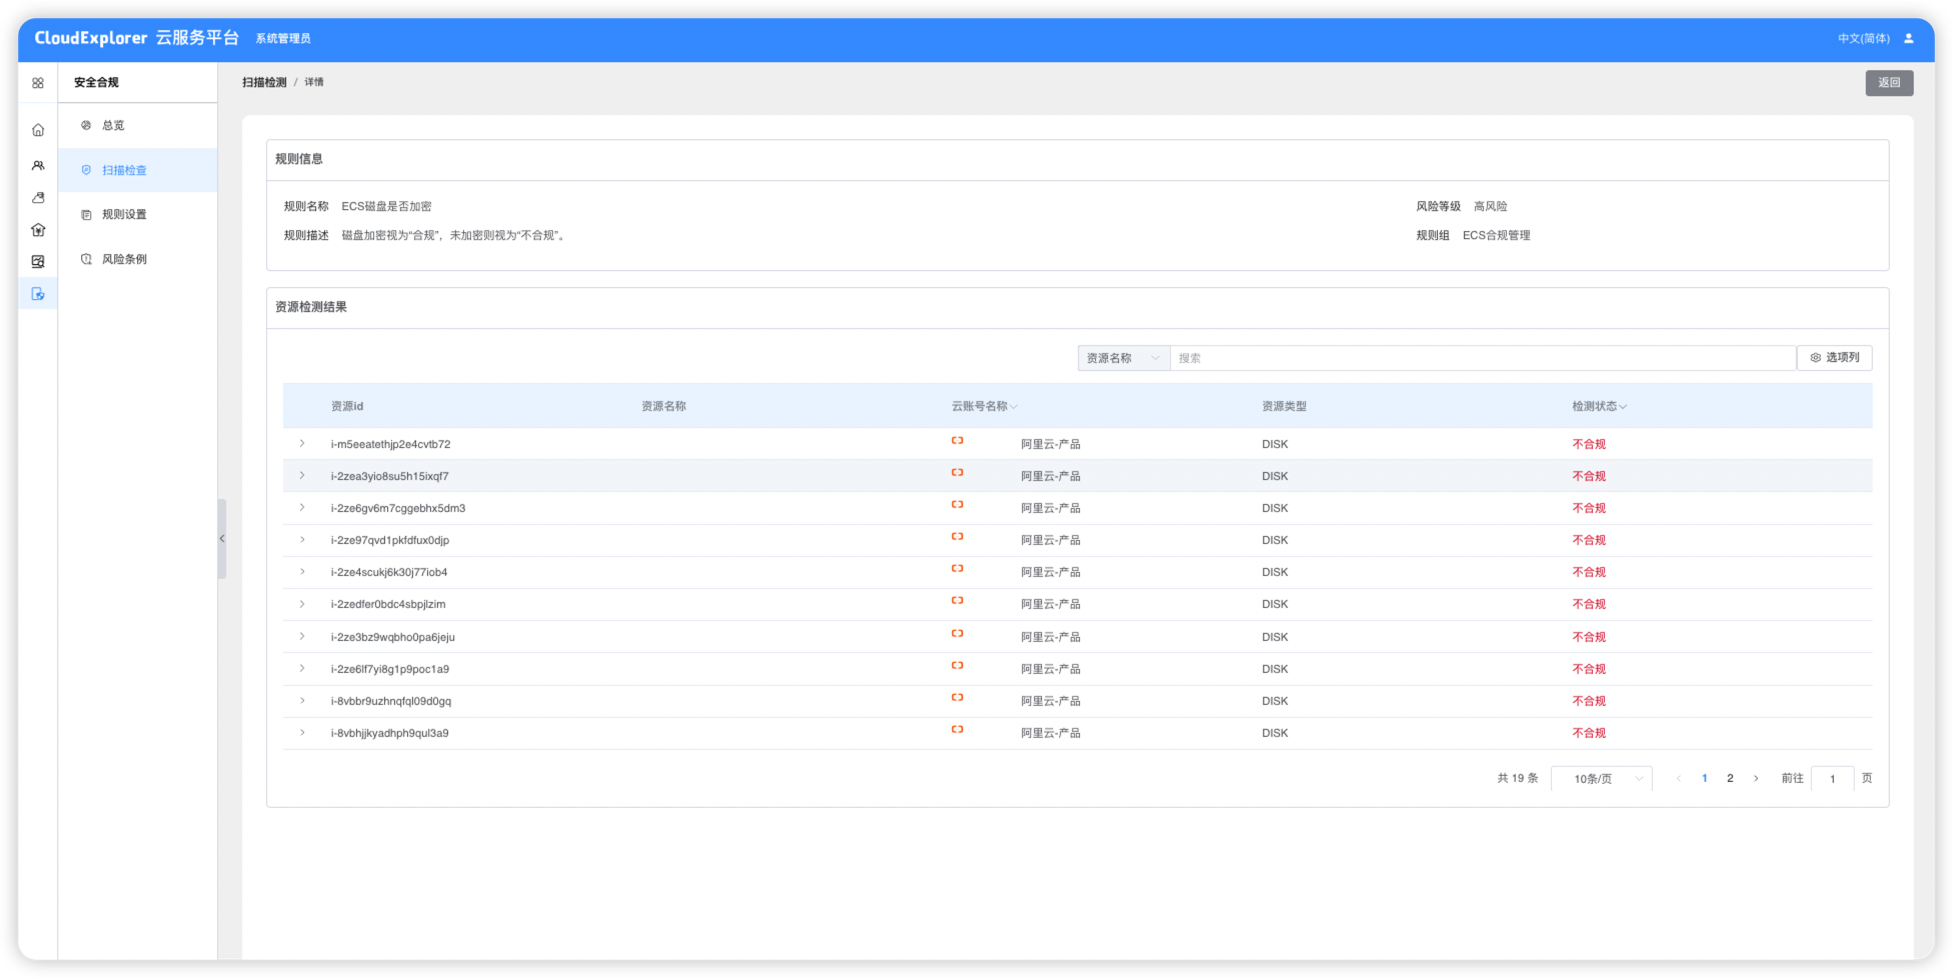
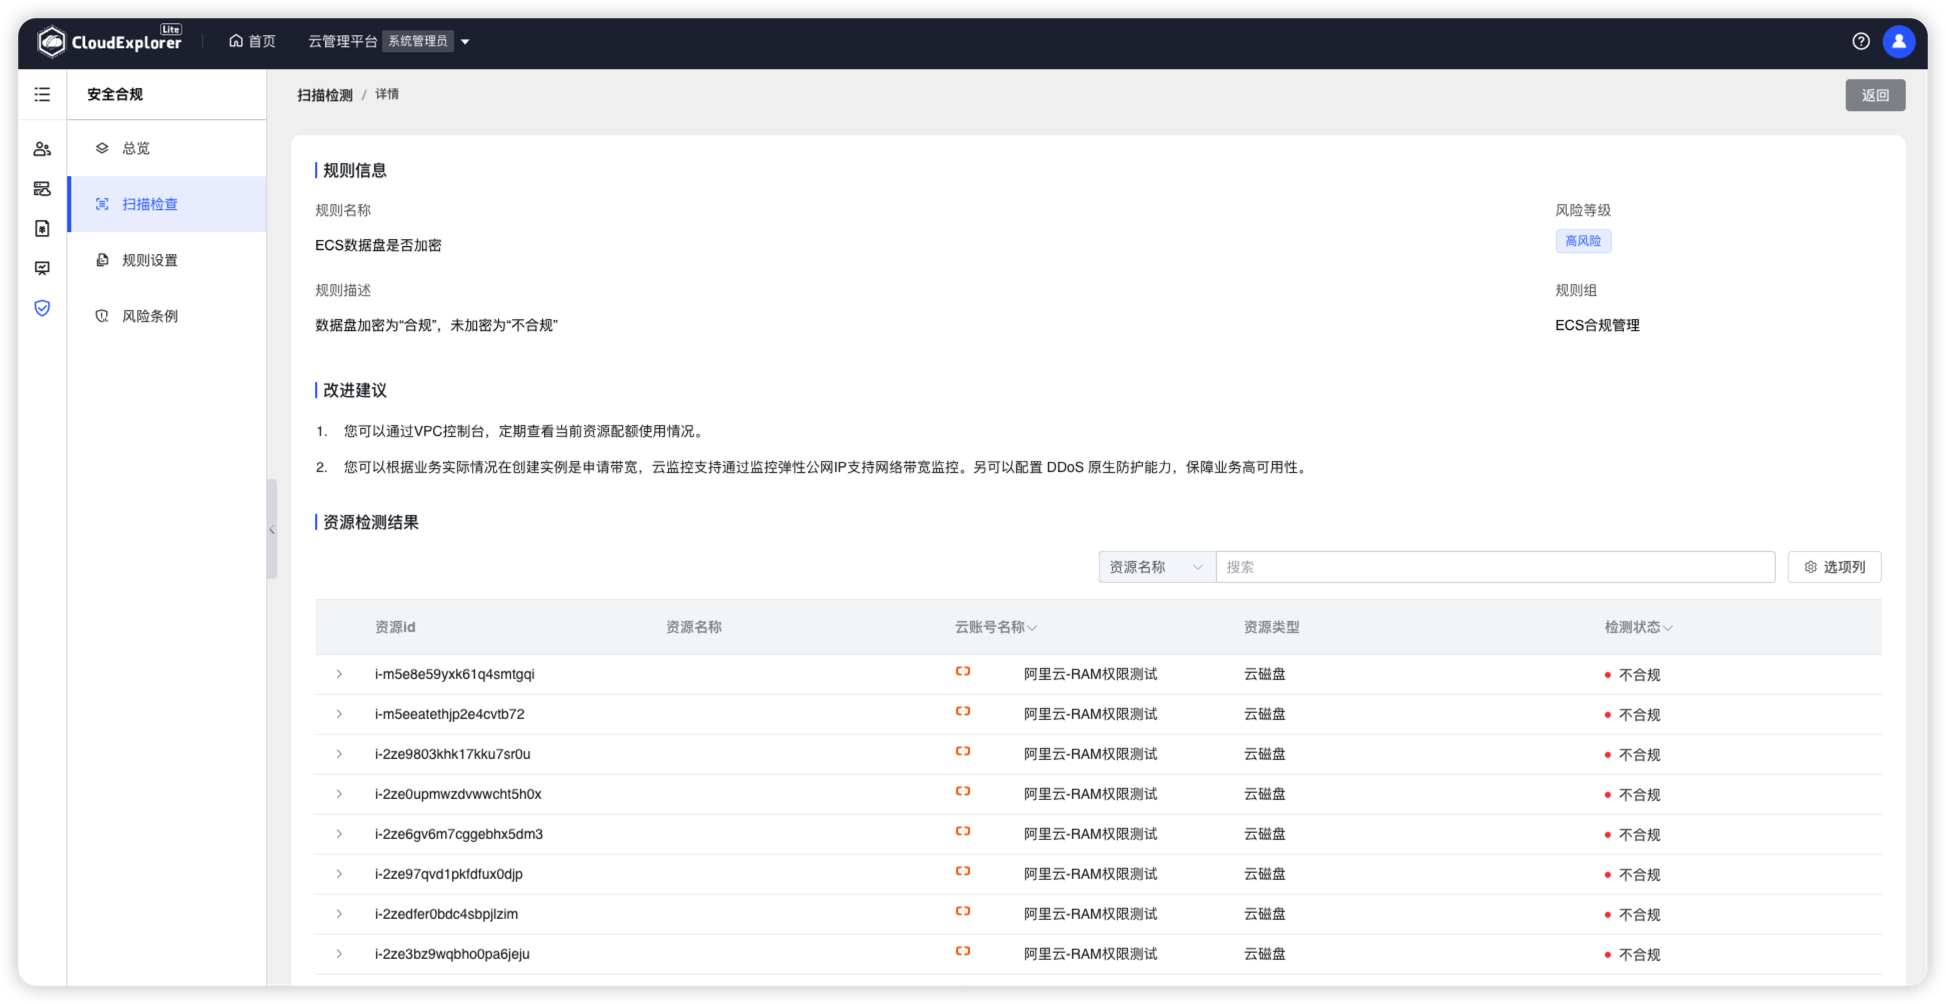
更新快速入门截图

diff --git a/docs/quick_start.md b/docs/quick_start.md
@@ -21,30 +21,26 @@
     CloudExplorer-Lite是一款B/S架构的产品，即浏览器/服务器结构，在服务器安装完成后，客户端通过浏览器访问以下地址，即可开始使用。
     ```
     http://目标服务器IP地址：服务运行端口
-    默认用户名：admin，默认密码：cloudexplorer-lite
+    默认用户名：admin，默认密码：cloudexplorer
     ```
 
 
 ## 2 功能界面介绍
 
-- 首页
+- 主页
 
 !!! Abstract ""
-    进入CloudExplorer-Lite首页后：
-    导航栏：
-    左侧导航是固定模块菜单，有【首页】、【管理中心】、【云主机服务】、【云账单】、【运营分析】、【安全合规】六大模块，点击图标便可切换模块中。
-
-    工作区域：
-    右侧区域为整体预览系统的功能及管理资源的数据统计，主要分为用户快捷服务、管理资源统计、费用趋势、资源优化建议、安全合规扫描结果等；  
-    快捷服务：用户可以点击快捷服务的按钮或菜单，可以快速进入对应的功能页面。
-    数据统计：统计用户当前管理的资源数据、费用数据以及需要资源优化的数据和不合规的资源数据。
+    登录 CloudExplorer-Lite 系统后默认进入主页，分为顶部导航、左侧导航栏和工作区域三部分。  
+    **顶部导航栏：** 顶部显示系统logo、用户登录身份（组织和角色）、帮助文档、个人信息。  
+    **左侧导航栏：** 左侧固定模块菜单，包含管理中心、云主机服务、云账单、运营分析、安全合规五个服务模块，点击图标便可切换到相应的模块中。  
+    **工作区域：** 右侧为工作区域，显示主页的内容包含个人信息、快捷服务、我的资源、不合规规则/资源统计、费用概览、费用趋势、云主机优化建议、云主机趋势、云主机状态分布。
  
 ![首页](./img/quick_start/主页.png){ width="1235px" }
 
 - 管理中心 
 
 !!! Abstract ""
-    管理员在此模块可以纳管云账号和同步资源数据、企业组织架构和用户权限的管理，是后续各模块查看、管理和分析资源的来源，具体可参考本文档的功能手册【管理中心】。
+    管理员在此模块可以纳管云账号和同步资源数据、企业组织架构和用户权限的管理，是后续各模块查看、管理和分析资源的数据来源，具体可参考本文档的功能手册【管理中心】。
 
 ![管理中心](./img/quick_start/管理中心.png){ width="1235px" }
 
@@ -60,54 +56,65 @@
 !!! Abstract ""
     用户可在此模块查看 IT 资源投入的成本费用、管理员可在此模块设置费用分摊、自定义多维度费用分析报表，具体可参考本文档的功能手册【云账单】。
 
-![云账单](img/quick_start/云账单.png){ width="1235px" }
+![云账单](img/quick_start/账单总览.png){ width="1235px" }
 
 - 运营分析
 
 !!! Abstract ""
     用户可在此模块查看 IT 资源的容量、使用情况、资源分布、趋势分析、资源优化建议，具体可参考本文档的功能手册【运营分析】。
 
-![运营分析](img/quick_start/运营分析.png){ width="1235px" }
+![运营分析](img/quick_start/运营分析-总览.png){ width="1235px" }
 
 - 安全合规
 
 !!! Abstract ""
     系统管理员可在此模块对云资源的配置从安全审计、访问控制、入侵防范、网络架构等进行合规性检查，具体可参考本文档的功能手册【安全合规】。
 
-![安全合规](img/quick_start/安全合规.png){ width="1235px" }
+![安全合规](img/quick_start/安全合规-总览.png){ width="1235px" }
 
 ## 3 快速上手
 
 ### 3.1 使用场景
 
 !!! Abstract ""
-    本章主要介绍系统管理员如何使用CloudExplorer-Lite 快速管理一个云账号，帮助大家快速掌握使用方法。  
-    初始化配置步骤：创建云账号 -> 管理云主机 -> 查看云账单 -> 查看运营分析 -> 查看安全合规；  
+    本章主要介绍系统管理员如何使用 CloudExplorer-Lite 快速管理一个云账号，帮助大家快速掌握使用方法。  
+    初始化配置步骤：添加云账号 -> 管理云主机 -> 查看云账单 -> 查看运营分析 -> 查看安全合规；  
 
 ### 3.2 创建云账号
-
 !!! Abstract ""
-    打开【管理中心】——【云账号】菜单，创建一个阿里云的云账号，名称为“阿里云-产品”。
-
-![云账号列表](img/quick_start/云账号列表.png){ width="1235px" }
-
-!!! Abstract ""
-    云平台选择“阿里云”(若是其他云平台的可选择对应的云平台)，当前以“阿里云”为例。
-
-![添加云账号](img/quick_start/添加云账号.png)
+    首次登录 CloudExplorer-Lite 平台时，会自动弹出添加云账号的向导，用户需要根据向导将云账号添加到云管平台中进行管理。
+   ![云账号向导](img/quick_start/云账号向导-选择云平台.png){ width="1235px" } 
 
 !!! Abstract ""
     输入名称为“阿里云-产品”，输入云账号的 AccessKey ID、AccessKey Secret，点击“确认”。
     说明：AccessKey权限要求：ECS的管理权限和所有资源的只读权限。
 
-![输入AccessKey](img/quick_start/输入AccessKey.png)
+![向导-输入云账号凭证](img/quick_start/云账号向导-输入云账号凭证.png)
+!!! Abstract ""
+    非首次登录可打开【管理中心】——【云账号】菜单，创建一个阿里云的云账号，名称为“阿里云-产品”。
+
+![云账号列表](img/quick_start/添加云账号.png){ width="1235px" }
 
 !!! Abstract ""
-    系统会自动同步该云账号下的云主机、磁盘、镜像等资源数据，过去一年的账单数据和安全合规扫描的资源数据。
-    系统会定时同步数据，用户也可以手动同步，详情操作可
+    云平台选择“阿里云”(若是其他云平台的可选择对应的云平台)，当前以“阿里云”为例。
+
+![添加云账号](img/quick_start/选择云平台.png)
+
+!!! Abstract ""
+    输入名称为“阿里云-产品”，输入云账号的 AccessKey ID、AccessKey Secret，点击“确认”。
+    说明：AccessKey权限要求：ECS的管理权限和所有资源的只读权限。
+
+![输入云账号凭证](img/quick_start/输入云账号凭证.png)
+
+!!! Abstract ""
+    系统会自动同步该云账号下的云主机、磁盘、镜像等资源数据，过去一年的账单数据和安全合规扫描的资源数据；  
+    系统会定时同步数据，用户也可以手动同步；
     资源同步完成后便可使用各服务模块进行查看和管理，否则各服务模块将没有数据。
 
-![同步数据](img/quick_start/同步全部数据.png)
+![云账号-同步全量数据](img/quick_start/云账号-同步全量数据.png)
+!!! Abstract ""
+    点击“云账号名称”或 “同步状态” 可以查看具体的同步记录和同步详情
+![云账号-同步详情](img/quick_start/云账号-同步详情.png)
 
 ### 3.3 管理云主机
 
@@ -124,7 +131,7 @@
 !!! Abstract ""
     需要用户选择在哪个云账号下创建云主机，选择云账号：阿里云，以下以创建阿里云云主机为例
 
-![选择云账号](img/quick_start/创建阿里云主机-选择云账号.png)
+![选择云账号](img/quick_start/创建云主机-选择云账号.png)
 
 !!! Abstract ""
     在基础配置页面需要选择：付费方式、区域、可用区、实例规格、操作系统、系统盘喝数据盘大小。
@@ -154,8 +161,8 @@
 !!! Abstract ""
     提交创建任务后，在云主机列表新增一条创建中的记录，并在任务列表生成创建云主机的任务。
 
-![创建中云主机列表](img/quick_start/创建中云主机列表.png)
-![创建云主机任务](img/quick_start/创建云主机任务.png)
+![创建中云主机列表](img/quick_start/云主机-创建中记录.png)
+![创建云主机任务](img/quick_start/任务-创建云主机任务.png)
 !!! Abstract ""
     任务完成后，云主机状态变为“运行中”。
 
@@ -169,15 +176,15 @@
 ### 3.4 查看云账单
 
 !!! Abstract ""
-    云账单服务实现了公有云费用汇总、费用分摊、自定义多维度月账单功能，在多云多账号的环境下提供统一的查看费用界面，方便用户管理费用。
+    提供了多云多账号的费用汇总、费用分摊、自定义多维度月账单功能，可作为企业的云资源成本分析。显著降低云上资源成本管理的难度，提升成本管理效率。
 
 - 账单总览
 
 !!! Abstract ""
-    系统管理员可以看到所有纳管云账号的当月总花费、今年总花费和近半年/近一年的总费用趋势，下方的月账单中可以查看用户自定义不同维度的月账单。
+    系统管理员可以看到所有纳管云账号的当月总花费、今年总花费、与上月或上个周期费用对比增加还是减少、近半年/近一年的总费用趋势，下方的月账单中可以查看用户自定义不同维度的月账单。
     组织管理员和普通用户可以查看已被分账授权的当月总花费、今年总花费和近半年/近一年的总费用趋势，下方的月账单中可以查看已被分账授权的不同维度的月账单。
 
-![云账单](img/quick_start/云账单.png)
+![云账单](img/quick_start/账单总览.png)
 
 - 账单明细
 
@@ -193,19 +200,19 @@
 !!! Abstract ""
     只有系统管理员添加编辑自定义账单，组织管理员和普通用户只能在账单总览中查看月账单；
     系统内置部分月账单：按云平台、按云账号、按产品名称、按付费类型、按企业项目；
-    若想要展示其他维度的月账单，系统管理员添加自定义月账单，支持的统计维度字段：云平台、云账号、区域、企业项目、组织（仅一级组织）、组织层级树、工作空间、标签、产品名称、产品明细、付费方式、资源名称等。
+    若想要展示其他维度的月账单，系统管理员添加自定义月账单，支持的统计维度字段：云平台、云账号、区域、企业项目、组织（仅一级组织）、组织层级树（可选择组织层级）、工作空间、标签、产品名称、产品明细、付费方式、资源名称等。
 
 ![自定义账单](img/quick_start/自定义账单.png)
 
 !!! Abstract ""
-    创建一个“按工作空间”的自定义账单，维度是：组织层级树1级、组织层级树2级、工作空间、产品名称。
+    创建一个“按工作空间”的自定义账单，统计字段是：组织、工作空间、产品名称。
 
-![添加自定义账单](img/quick_start/添加自定义账单.png)
+![添加自定义账单](img/quick_start/创建自定义账单.png)
 
 !!! Abstract ""
     自定义账单创建完成后可在【账单总览】中下面的月账单中查看。
 
-![账单总览](img/quick_start/账单总览.png)
+![账单总览](img/quick_start/账单总览-自定义账单.png)
 
 - 分账设置
 
@@ -239,7 +246,7 @@
 !!! Abstract ""
     从不同维度展示最近一次扫描检测结果的统计信息.
 
-![安全合规总览](img/quick_start/安全合规总览.png)
+![安全合规总览](img/quick_start/安全合规-总览.png)
 
 - 合规扫描
 
@@ -247,7 +254,7 @@
     支持管理员一键扫描；
     支持管理员可以按规则组、资源类型、云账号查看扫描规则及扫描结果详情.
 
-![合规扫描](img/quick_start/合规扫描.png)
+![扫描检查](img/quick_start/扫描检查.png)
 
 - 规则设置
 
@@ -255,16 +262,18 @@
     系统内置了多条合规规则，并支持管理员按照企业要求自定义合规规则;
     支持管理员开启和关闭规则，关闭的规则不会在【合规扫描】中显示该规则，一键扫描时也不会扫描该规则。
 
-![合规规则设置](img/quick_start/合规规则设置.png)
+![合规规则](img/quick_start/合规规则.png)
 
 !!! Abstract ""
     新增一个阿里云的磁盘是否开启加密设置的检测规则，操作如下：
 
-![添加合规规则](img/quick_start/添加合规规则.png)
+![创建合规规则](img/quick_start/创建合规规则.png)
 
 !!! Abstract ""
-    添加完规则后，在【合规扫描】中变可以看到该规则，点击【一键扫描】后可以对该规则进行资源扫描。
-![合规规则扫描](img/quick_start/合规规则扫描.png)
+    添加完规则后，在【合规扫描】中变可以看到该规则，点击【一键扫描】后可以选择改规则所在的规则组进行资源扫描。
+![新增规则扫描](img/quick_start/扫描检查-新增的规则.png)
+![一键扫描新增规则](img/quick_start/选择扫描新增规则的组.png)
+
 
 !!! Abstract ""
     点击相应规则的“不合规/合规资源”字段，可以进入扫描资源详情页面。
@@ -276,7 +285,7 @@
 !!! Abstract ""
     支持用户自定义规则组将扫描规则进行分组。
 
-![合规规则组](img/quick_start/合规规则组.png)
+![合规规则组](img/quick_start/规则组.png)
 
 - 风险条例
 
@@ -288,14 +297,14 @@
 
 ### 3.6 查看运营分析
 !!! Abstract ""
-    添加完云账号后便可对已纳管的资源从分布、容量、使用情况等进行各维度的分析，提供资源优化建议。
+    添加完云账号便可对已纳管的资源从分布、容量、使用情况等各维度进行分析，并提供资源优化建议。
 
 - 总览
 
 !!! Abstract ""
     整体查看当前所管理的资源数量统计，资源使用情况统计，资源分布、资源增长趋势以及资源的优化建议。可以按照云账号过滤显示每个云账号下的资源统计情况，
 
-![运营分析总览](img/quick_start/运营分析.png)
+![运营分析总览](img/quick_start/运营分析-总览.png)
 
 - 基础资源分析
 
@@ -316,17 +325,17 @@
 !!! Abstract ""
     对纳管的磁盘从不同维度进行可视化分析，查看磁盘的趋势、资源使用情况、运行状态、资源分布等。
 
-![云磁盘优化](img/quick_start/云磁盘分析.png)
+![云磁盘优化](img/quick_start/磁盘分析.png)
 
 - 云主机优化
+!!! Abstract ""
+    根据优化策略查找出需要优化的资源，用户可以自定义优化策略的筛选条件；   
+    支持查询建议升配、建议降配、变更付费方式、建议回收的云主机。   
+   
 
-    根据优化策略查询条件可以查找出需要优化的资源；
-    支持查询升/降配云主机、变更付费方式云主机、建议回收的云主机；
-    用户可以自定义优化策略的判断条件；
-
-![云主机优化](img/quick_start/资源优化.png)
+![云主机优化](img/quick_start/云主机优化.png)
 
 !!! Abstract ""
-    点击每个优化策略面板右上角的设置按钮，可以对优化策略条件进行自定义设置，设置应用后则按照最新的策略进行查询资源。
+    点击每个优化策略面板右上角的设置按钮，可以对优化策略筛选条件进行自定义设置，设置保存后则按照最新的策略进行查询资源。
 
-![资源优化策略](img/quick_start/资源优化策略.png)
+![资源优化策略](img/quick_start/云主机优化策略.png)

diff --git a/docs/index.md b/docs/index.md
@@ -13,17 +13,17 @@
 
 !!! Abstract ""
     - 开源开放：基于开源、兼容开源；快速获取用户反馈，按月发布新版本；
-    - 统一平台：整合多云异构基础架构，简化多云多账号环境带来的服务管理运维复杂难度；
+    - 统一平台：整合多云异构基础架构，多云多账号统一纳管，解决资源管理运维复杂和全成本分析管理的难度；
     - 权限管理：实现用户、资源、功能权限的解耦，方便用户快速建立符合企业内部使用情况的管理体系；
-    - 扩展能力：采用全模块化设计，企业可以部署不同管理模块扩大管理范围。
+    - 扩展能力：采用模块插件化设计、即插即用，企业可以轻松部署不同管理模块扩大管理范围。
 
 ## 3 主要功能
 
 !!! Abstract ""
 
-    - 管理中心：CloudExplorer-Lite 云管平台的统一管理中心，主要包括企业组织架构、用户权限管理，云账号管理、数据同步设置，模块服务安装，用户操作日志、系统日志管理，系统配置等。
+    - 管理中心：CloudExplorer-Lite 云管平台的统一管理中心，主要包括企业组织架构、用户权限管理，云账号管理、数据同步设置，模块服务安装，用户操作日志、系统日志管理，模块管理、系统配置等。
     - 云主机服务：提供云主机的生命周期管理操作；基于用户管理体系，用户可创建、可操作的资源都具备隔离性；在多云环境下提供统一的操作界面，为用户带来极大便利。
-    - 云账单：云账单服务实现了公有云费用汇总、费用分摊、自定义多维度月账单功能，在多云多账号的环境下提供统一的查看费用界面，方便用户管理费用。
+    - 云账单：提供了多云多账号的费用汇总、费用分摊、自定义多维度月账单功能，可作为企业的云资源成本分析。显著降低云上资源成本管理的难度，提升成本管理效率。
     - 运营分析：运营分析模块可对混合 IT 环境中的资源从分布、容量、使用情况等进行各维度的分析，提供资源优化建议。
     - 安全合规：支持对多个云平台的多种云资源从安全审计、访问控制、网络架构等方面进行合规检查。
 

diff --git a/docs/best_practices.md b/docs/best_practices.md
@@ -1,0 +1,29 @@
+## 1 功能实践篇
+
+!!! Abstract ""
+    - [DataEase 应用的管理与使用](https://kb.fit2cloud.com/?p=211)
+    - [DataEase 邮箱设置配置流程](https://kb.fit2cloud.com/?p=190)
+    - [使用 DataEase 数据集关联跨库数据](https://kb.fit2cloud.com/?p=100)
+    - [使用计算字段做数据字典映射](https://kb.fit2cloud.com/?p=47)
+    - [使用 Tab 组件做多屏仪表板及自动轮播](https://kb.fit2cloud.com/?p=231)
+    - [从搭建 Keycloak 到 DataEase 配置 OIDC 实现单点登录](https://kb.fit2cloud.com/?p=121)
+
+
+## 2 场景实践篇
+
+!!! Abstract ""
+    - [阿里云 IDaas 对接](https://kb.fit2cloud.com/?p=184)
+    - [如何将 DataEase 嵌入第三方系统](https://kb.fit2cloud.com/?p=122)
+    - [如何给明细表添加分组排序](https://kb.fit2cloud.com/?p=219)
+    - [如何实现显示数据排名](https://kb.fit2cloud.com/?p=166)
+    - [文本搜索组件如何实现搜索时忽略字母大小写？](https://kb.fit2cloud.com/?p=f5c49148-a168-41dc-bbd2-65effd22d65e)
+
+
+## 3 扩展学习篇
+
+!!! Abstract ""
+    - [数据分析与 BI 的异同](https://kb.fit2cloud.com/?p=149)
+    - [【间距意识】一个最容易被忽视的细节](https://kb.fit2cloud.com/?p=164)
+    - [【色彩搭配】轻松搞定仪表板配色](https://kb.fit2cloud.com/?p=148)
+
+
